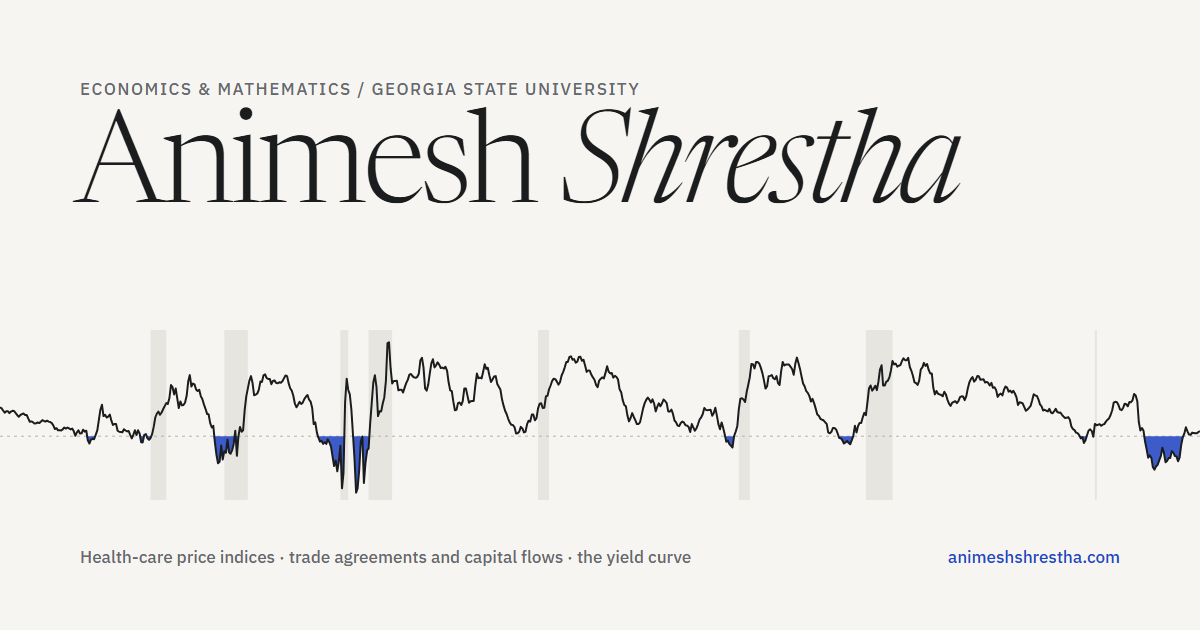
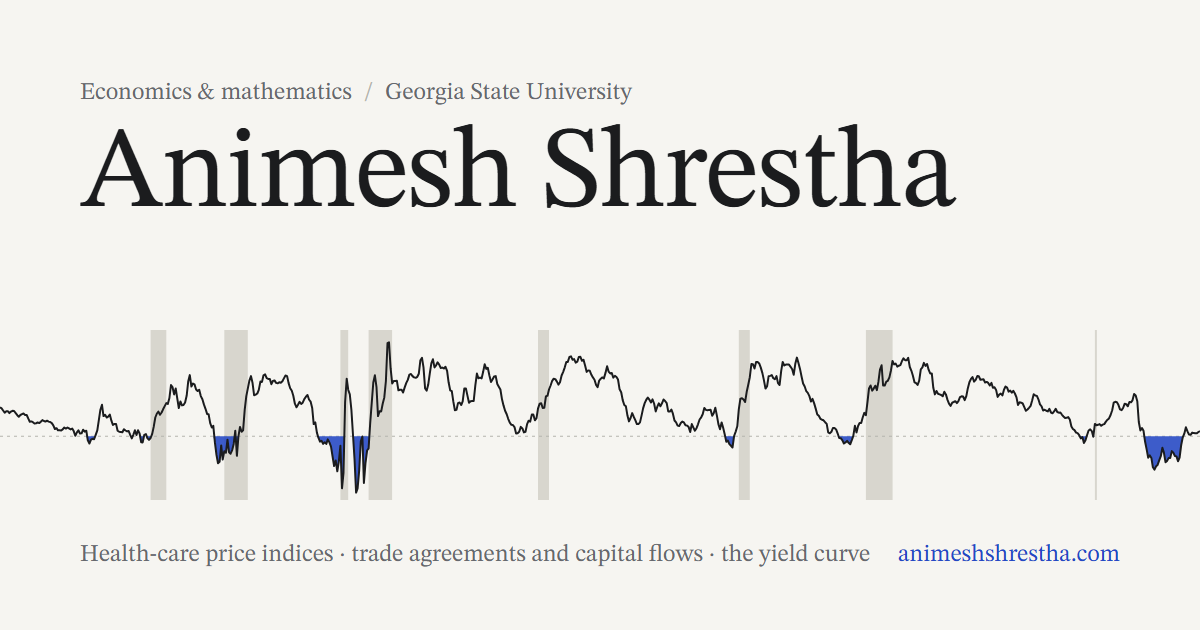
Remove font credits and regenerate the preview image in STIX Two Text

Changed region(s): [[0.0617, 0.1206, 0.8017, 0.3317], [0.0617, 0.8444, 0.9558, 0.9048]]

diff --git a/src/components/Footer.jsx b/src/components/Footer.jsx
@@ -13,7 +13,7 @@ export default function Footer({ openPalette }) {
         </p>
         <div>
           <p>
-            Set in Newsreader and IBM Plex Sans. Built with React and Vite; the{' '}
+            Built with React and Vite; the{' '}
             <a href="https://github.com/Animeshav14/animesh.website">source is on GitHub</a>. Last updated {person.updated}.
           </p>
         </div>

diff --git a/README.md b/README.md
@@ -30,7 +30,7 @@ To update the site, edit `src/content.js`. To update the CV, replace `public/ass
 - React 18 and React Router
 - Vite
 - Plain CSS, no framework
-- Newsreader and IBM Plex Sans, loaded from Google Fonts
+- STIX Two Text and STIX Two Math, self-hosted via Fontsource
 
 There are no animation or UI libraries. The interactive parts are the charts, the command menu, and the theme toggle.
 
@@ -38,7 +38,7 @@ There are no animation or UI libraries. The interactive parts are the charts, th
 
 The line across the top of the home page is the 10-year minus 3-month Treasury spread, monthly from 1962 to 2025. Months where it was negative are filled in the accent blue. NBER recessions are shaded. The data are FRED series (GS10, TB3MS, USREC) from my [recession-nowcasting](https://github.com/Animeshav14/recession-nowcasting) project, converted to a small array in `src/data/yieldSpread.js`.
 
-`Horizon.jsx` draws it as one SVG path, stretched to the window width with `preserveAspectRatio="none"` and a non-scaling stroke, so it stays a hairline at any size. Hovering, dragging on a phone, or focusing it and using the arrow keys shows the month and value. The same data drives the chart in the research section (`SpreadChart.jsx`) and the link-preview image, `public/og.png`. The favicon is a hand-drawn sketch of it.
+`Horizon.jsx` draws it as one SVG path, stretched to the window width with `preserveAspectRatio="none"` and a non-scaling stroke, so it stays a hairline at any size. Hovering, dragging on a phone, or focusing it and using the arrow keys shows the month and value. The same data drives the chart in the research section (`SpreadChart.jsx`) and the link-preview image, `public/og.png`, which `npm run og` regenerates (`scripts/og.mjs`, Playwright). The favicon is a hand-drawn sketch of it.
 
 ## Other details
 
